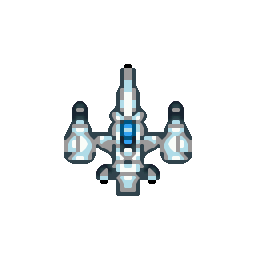
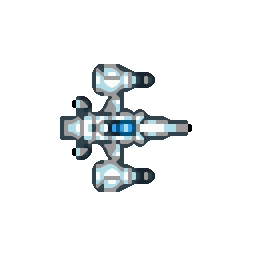
Lab 2 b complete

Changed region(s): [[0.2188, 0.25, 0.75, 0.7812]]

diff --git a/KinematicBehaviour.cpp b/KinematicBehaviour.cpp
@@ -1,0 +1,108 @@
+#include "KinematicBehaviour.h"
+#include <iostream>
+
+sf::Vector2f KinematicBehaviour::wander(float deltaTime) {
+
+	sf::Vector2f circleCenter = velocity;
+	circleCenter = normalise(circleCenter);
+	circleCenter = circleCenter * (wanderOffset);
+
+	sf::Vector2f displacement(0, -1);
+	displacement = displacement * (wanderRadius);
+	if (lastDirectionShift + wait > clock.getElapsedTime().asSeconds())
+	{
+		setWanderAngle(displacement, wanderAngle);
+	}
+
+
+
+
+	wanderAngle += randomNumber(-1.0f, 1.0f) * .2;
+	sf::Vector2f wanderForce;
+	wanderForce = circleCenter + displacement;
+	lastDirectionShift = clock.getElapsedTime().asSeconds();
+	return wanderForce * maxAcceleration;
+}
+
+float KinematicBehaviour::randomNumber(float Min, float Max)
+{
+	return ((float(rand()) / float(RAND_MAX)) * (Max - Min)) + Min;
+}
+
+sf::Vector2f KinematicBehaviour::seek(sf::Vector2f target, float deltaTime)
+{
+
+	sf::Vector2f desiredVelocity = normalise(target - *position) * maxAcceleration;
+	sf::Vector2f steering = desiredVelocity - velocity;
+
+	steering = truncate(steering, 25 * deltaTime);
+	velocity = truncate(velocity + steering, maxAcceleration);
+
+	return velocity;
+}
+sf::Vector2f KinematicBehaviour::flee(sf::Vector2f target, float deltaTime)
+{
+
+	sf::Vector2f desiredVelocity = normalise(*position - target) * maxAcceleration;
+	sf::Vector2f steering = desiredVelocity - velocity;
+
+	steering = truncate(steering, 25 * deltaTime);
+	velocity = truncate(velocity + steering, maxAcceleration);
+
+	return velocity;
+}
+
+
+sf::Vector2f KinematicBehaviour::arrival(sf::Vector2f target, float deltaTime)
+{
+
+	sf::Vector2f desiredVelocity = normalise(target - *position) * maxAcceleration;
+
+	float distance = magnitude(desiredVelocity);
+
+	if (distance < 100)
+	{
+		// Inside the slowing area
+		desiredVelocity = normalise(desiredVelocity) * maxAcceleration * (distance / 100);
+	}
+	else
+	{
+		desiredVelocity = normalise(desiredVelocity) * maxAcceleration;
+	}
+	sf::Vector2f steering = desiredVelocity - velocity;
+
+	steering = truncate(steering, 25 * deltaTime);
+	velocity = truncate(velocity + steering, maxAcceleration);
+
+	return velocity;
+}
+
+
+
+sf::Vector2f KinematicBehaviour::normalise(sf::Vector2f vector)
+{
+	return vector / magnitude(vector);
+}
+
+sf::Vector2f KinematicBehaviour::truncate(sf::Vector2f vector, float maxForce)
+{
+	if (magnitude(vector) > maxForce)
+	{
+		return normalise(vector) * maxForce;
+	}
+	return vector;
+}
+
+float KinematicBehaviour::magnitude(sf::Vector2f vector)
+{
+	return (std::sqrtf(vector.x * vector.x + vector.y * vector.y));
+}
+
+void KinematicBehaviour::setWanderAngle(sf::Vector2f& displacement, float angle)
+{
+	
+		float len  = std::sqrtf((displacement.x * displacement.x) + (displacement.y * displacement.y));
+		displacement.x = std::cos(angle) * len;
+		displacement.y = std::sin(angle) * len;
+	
+}

diff --git a/Player.cpp b/Player.cpp
@@ -21,9 +21,9 @@ void Player::updateVelocity(float deltaTime)
 {
 	if (input.heldDown())
 	{
-		if (physics.getVelocity().y < MAX_DIRECTIONAL_VELOCITY)
+		if (physics.velocity.y < MAX_DIRECTIONAL_VELOCITY)
 		{
-			physics.setYVelocity(physics.getVelocity().y + acceleration * deltaTime);
+			physics.setYVelocity(physics.velocity.y + acceleration * deltaTime);
 		}
 		else
 		{
@@ -32,9 +32,9 @@ void Player::updateVelocity(float deltaTime)
 	}
 	else if (input.heldUp())
 	{
-		if (physics.getVelocity().y > -MAX_DIRECTIONAL_VELOCITY)
+		if (physics.velocity.y > -MAX_DIRECTIONAL_VELOCITY)
 		{
-			physics.setYVelocity(physics.getVelocity().y - acceleration * deltaTime);
+			physics.setYVelocity(physics.velocity.y - acceleration * deltaTime);
 		}
 		else
 		{
@@ -43,9 +43,9 @@ void Player::updateVelocity(float deltaTime)
 	}
 	if (input.heldLeft())
 	{
-		if (physics.getVelocity().x > -MAX_DIRECTIONAL_VELOCITY)
+		if (physics.velocity.x > -MAX_DIRECTIONAL_VELOCITY)
 		{
-			physics.setXVelocity(physics.getVelocity().x - acceleration * deltaTime);
+			physics.setXVelocity(physics.velocity.x - acceleration * deltaTime);
 		}
 		else
 		{
@@ -54,9 +54,9 @@ void Player::updateVelocity(float deltaTime)
 	}
 	else if (input.heldRight())
 	{
-		if (physics.getVelocity().x < MAX_DIRECTIONAL_VELOCITY)
+		if (physics.velocity.x < MAX_DIRECTIONAL_VELOCITY)
 		{
-			physics.setXVelocity(physics.getVelocity().x + acceleration * deltaTime);
+			physics.setXVelocity(physics.velocity.x + acceleration * deltaTime);
 		}
 		else
 		{
@@ -71,7 +71,7 @@ void Player::movePlayer(float deltaTime)
 	updateVelocity(deltaTime);
 	setSpriteAngle();
 
-	position += physics.getVelocity();
+	position += physics.velocity;
 
 	wrapAroundWorld();
 
@@ -89,5 +89,5 @@ void Player::initialiseSprite()
 
 void Player::setSpriteAngle()
 {
-	sprite.setRotation((std::atan2(physics.getVelocity().y, physics.getVelocity().x)*180/PI));
+	sprite.setRotation((std::atan2(physics.velocity.y, physics.velocity.x)*180/PI));
 }

diff --git a/KinematicBehaviour.h b/KinematicBehaviour.h
@@ -1,0 +1,40 @@
+#pragma once
+#include <SFML/Graphics.hpp>
+#include <random>
+#include "Constants.h"
+#include <cmath>
+
+
+class KinematicBehaviour
+{
+public:
+	KinematicBehaviour(sf::Vector2f& velocity) : velocity(velocity) { };
+	~KinematicBehaviour() {};
+
+	sf::Vector2f wander(float deltaTime);
+	float randomNumber(float Min, float Max);
+	sf::Vector2f seek(sf::Vector2f target, float deltaTime);
+	sf::Vector2f flee(sf::Vector2f target, float deltaTime);
+	sf::Vector2f arrival(sf::Vector2f target, float deltaTime);
+	void arrive();
+	void setPosition(sf::Vector2f* position) { this->position = position; }
+private:
+	sf::Vector2f normalise(sf::Vector2f vector);
+	sf::Vector2f truncate(sf::Vector2f vector, float maxForce);
+	float angleBetween(sf::Vector2f vector1, sf::Vector2f vector2);
+	float magnitude(sf::Vector2f vector);
+	void setWanderAngle(sf::Vector2f& displacement, float angle);
+	float wanderOffset = 10;
+	float wanderRadius = 10;
+	float wanderRate = 10;
+	float wanderOrientation = 0;
+	float wanderAngle = 0;
+	float maxAcceleration = 90.6f;
+
+	sf::Vector2f& velocity;
+	sf::Vector2f* position;
+
+	float wait = 1.5f;
+	float lastDirectionShift = 0;
+	sf::Clock clock;
+};

diff --git a/Npc.cpp b/Npc.cpp
@@ -5,6 +5,7 @@ Npc::Npc()
 	initialiseSprite();
 	position = sf::Vector2f(100, 100);
 	sprite.setPosition(position);
+	kin.setPosition(&position);
 }
 
 Npc::~Npc()
@@ -14,6 +15,7 @@ Npc::~Npc()
 void Npc::update(float deltaTime)
 {
 	moveNpc(deltaTime);
+	setSpriteAngle();
 
 	sprite.setPosition(position);
 }
@@ -28,10 +30,20 @@ void Npc::initialiseSprite()
 	sprite.setOrigin(127, 127);
 }
 
+void Npc::setSpriteAngle()
+{
+	sprite.setRotation((std::atan2(physics.velocity.y, physics.velocity.x) * 180 / PI));
+}
+
 void Npc::moveNpc(float deltaTime)
 {
-	position.x += physics.getVelocity().x * deltaTime;
-	position.y += physics.getVelocity().y * deltaTime;
+
+	//physics.setVelocity(kin.wander(deltaTime));
+	//physics.setVelocity(kin.seek(player->getPosition(), deltaTime));
+	//physics.setVelocity(kin.flee(player->getPosition(), deltaTime));
+	physics.setVelocity(kin.arrival(player->getPosition(), deltaTime));
+	position.x += physics.velocity.x * deltaTime;
+	position.y += physics.velocity.y * deltaTime;
 
 	wrapAroundWorld();
 }

diff --git a/Npc.h b/Npc.h
@@ -1,7 +1,8 @@
 #pragma once
 
 #include "Character.h"
-
+#include "KinematicBehaviour.h"
+#include "Player.h"
 class Npc : public Character
 {
 
@@ -17,11 +18,17 @@ public:
 	~Npc();
 	void draw(sf::RenderWindow& window) { window.draw(sprite); }
 	void update(float deltaTime);
+
+	void setPlayer(Player* player) { this->player = player; }
 private:
+	Player* player;
 	sf::Sprite sprite;
 	sf::Texture texture;
+	KinematicBehaviour kin = KinematicBehaviour(physics.velocity);
 
 	void initialiseSprite();
+	void setSpriteAngle();
 
 	void moveNpc(float deltaTime);
+
 };

diff --git a/Game.cpp b/Game.cpp
@@ -6,6 +6,7 @@
 Game::Game() : window { sf::VideoMode(1920, 1080, 32), "AI Labs", sf::Style::Fullscreen}
 {
 	npc.physics.setVelocity(sf::Vector2f{ 1, 1 });
+	npc.setPlayer(&player);
 }
 
 Game::~Game()
@@ -20,7 +21,7 @@ void Game::run()
 
 	while (window.isOpen() && !exitGame)
 	{
-		deltaTime = clock.getElapsedTime().asMilliseconds() - timeAtEndOfPreviousFrame.asMilliseconds();
+		deltaTime = clock.getElapsedTime().asSeconds() - timeAtEndOfPreviousFrame.asSeconds();
 
 		if (clock.getElapsedTime() < timeAtEndOfPreviousFrame + timePerFrame)
 		{

diff --git a/Physics2D.h b/Physics2D.h
@@ -6,8 +6,7 @@
 class Physics2D
 {
 
-private:
-	sf::Vector2f velocity = sf::Vector2f(0,0);
+protected:
 	float gravityScale = 1;
 
 public:
@@ -22,7 +21,7 @@ public:
 	}
 	~Physics2D() {};
 
-	sf::Vector2f getVelocity() { return velocity; }
+	sf::Vector2f velocity = sf::Vector2f(0, 0);
 	void setVelocity(sf::Vector2f velocity) { this->velocity = velocity; }
 	void setXVelocity(float x) { this->velocity.x = x; }
 	void setYVelocity(float y) { this->velocity.y = y; }

diff --git a/Player.h b/Player.h
@@ -22,7 +22,7 @@ private:
 	sf::Sprite sprite;
 	sf::Texture texture;
 
-	float acceleration = 0.01f;
+	float acceleration = 8.0f;
 
 	InputManager input;
 
@@ -32,6 +32,6 @@ private:
 
 	void setSpriteAngle();
 	
-	const float MAX_DIRECTIONAL_VELOCITY = 3.0f;
+	const float MAX_DIRECTIONAL_VELOCITY = 30.0f;
 
 };

diff --git a/Character.h b/Character.h
@@ -14,7 +14,7 @@ public:
 	virtual void update(float deltaTime) = 0;
 
 	Physics2D physics;
-
+	sf::Vector2f getPosition() { return position; }
 protected:
 	void wrapAroundWorld();
 	sf::Vector2f position = sf::Vector2f{ 0, 0 };
